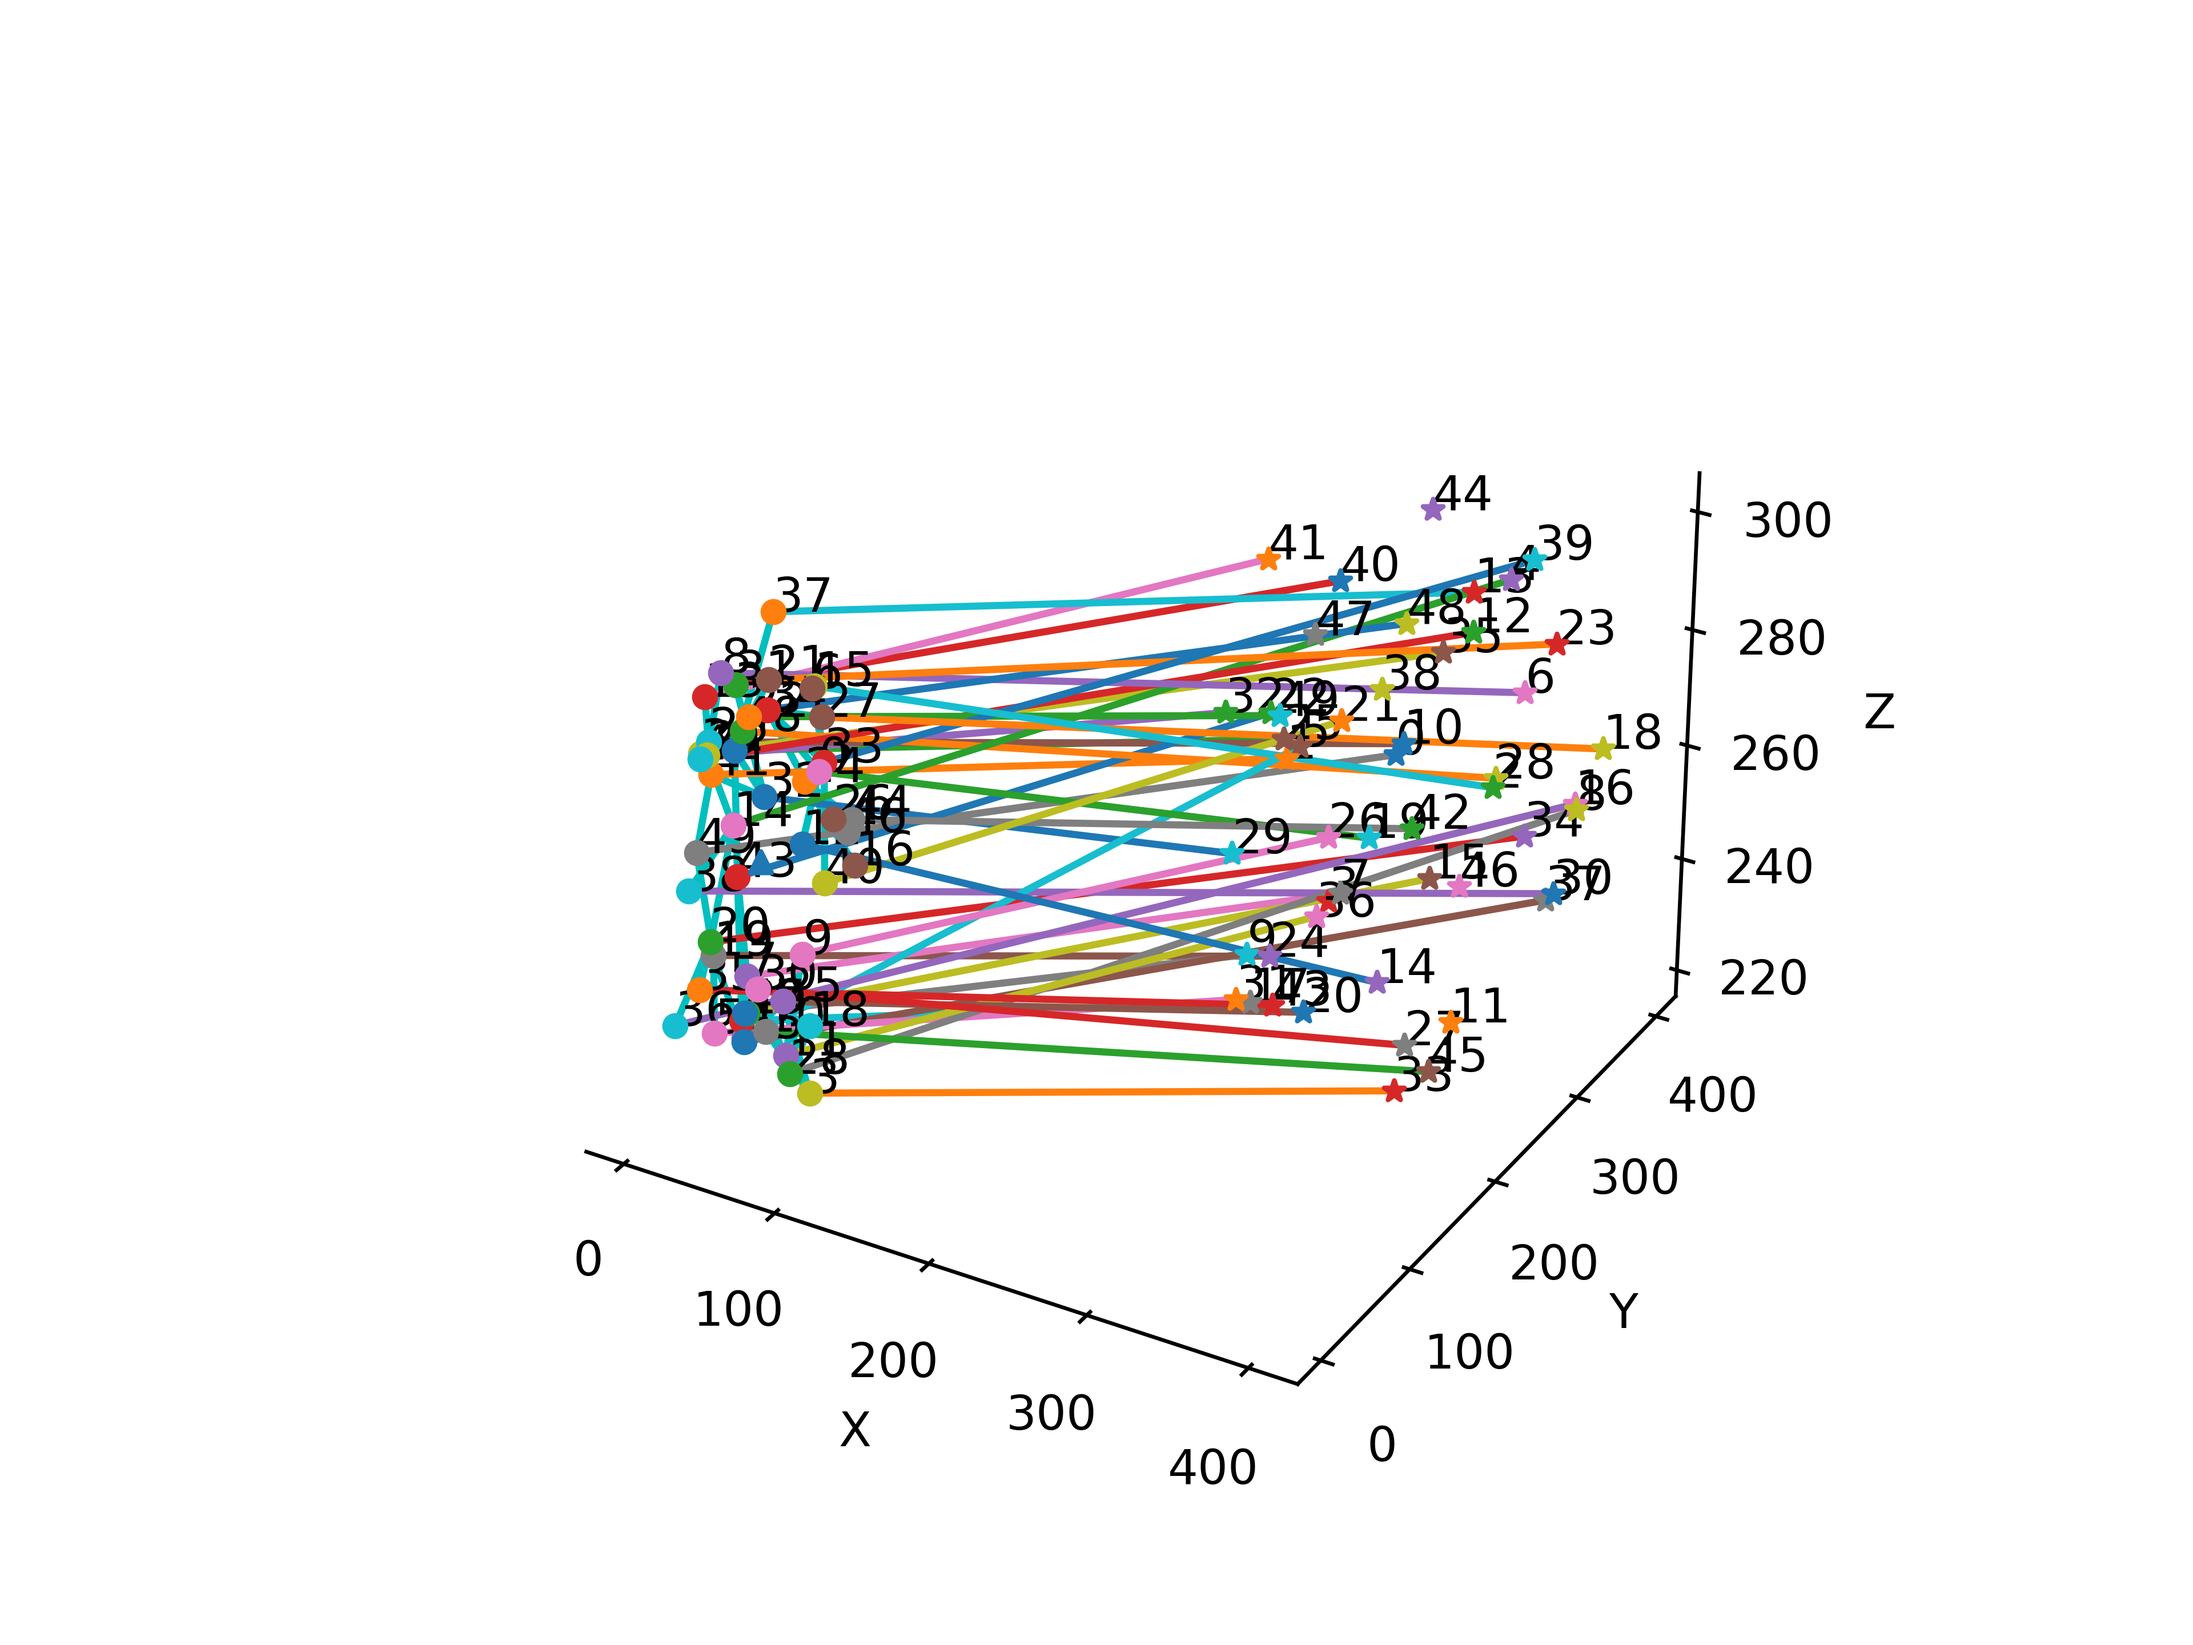
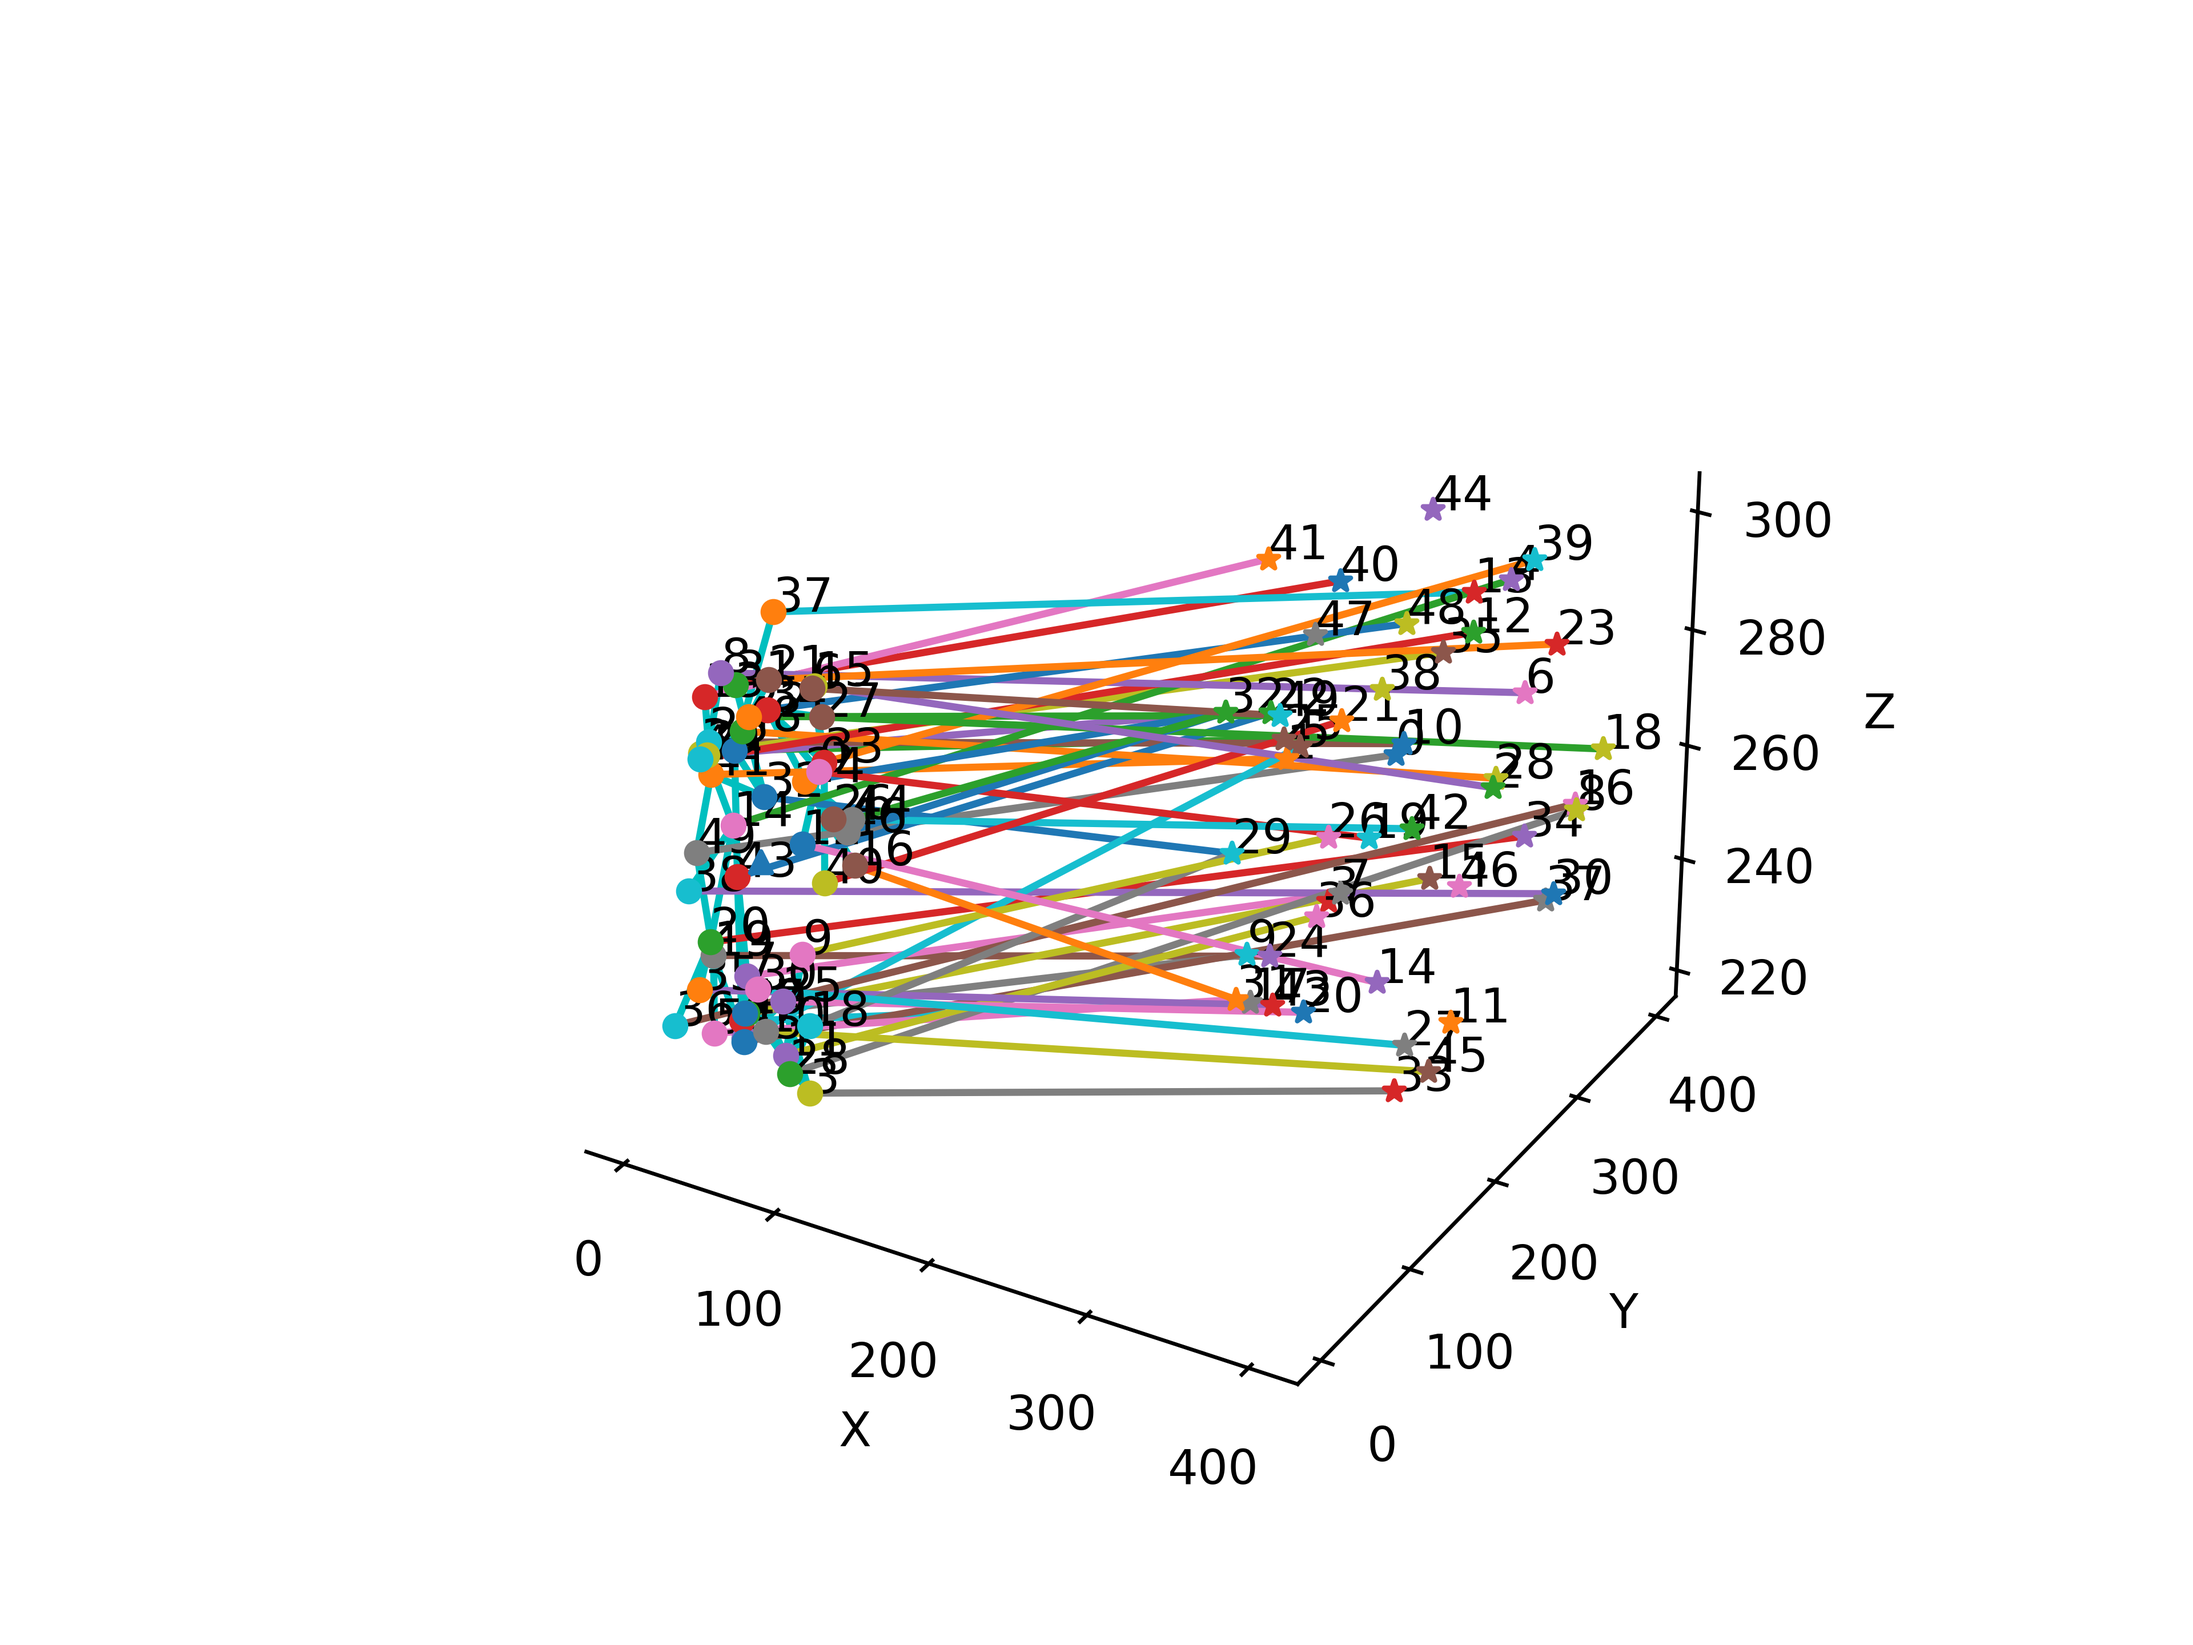
add force allocation

Changed region(s): [[0.375, 0.375, 0.7188, 0.6875], [0.625, 0.3438, 0.6875, 0.375], [0.5938, 0.5625, 0.625, 0.5938]]

diff --git a/algorithm.py b/algorithm.py
@@ -184,7 +184,16 @@ class Algorithm:
 
         if maxp is not None:
             print("unit {} choose task {}".format(r.val.id, tasks[maxp[0]]))
-            return tasks[maxp[0]]
+            return True, tasks[maxp[0]]
+        else:
+            maxc, maxi = 0, 0
+            for i, a in enumerate(r.val.NTL):
+                # print(a)
+                if a["payoff"] > maxc:
+                    maxc = a["payoff"]
+                    maxi = i
+            return False, r.val.NTL[maxi]["id"]
+
 
     def SolveGG(self, T, W):
         for i in range(W.num):
@@ -247,12 +256,13 @@ class Algorithm:
             r = stash.popleft()
             # # global share
             # r.parent_select = previous_select
-            r_select = self.CalcCETree(r, W)
+            is_success, r_select = self.CalcCETree(r, W)
             if r_select is not None:
-                Coverage += 1
-                GlobalPayoff += self.M - np.linalg.norm(r.val.position - T.units[r_select].position)
+                if is_success:
+                    Coverage += 1
+                    GlobalPayoff += self.M - np.linalg.norm(r.val.position - T.units[r_select].position)
+                    previous_select.append(r_select)
                 self.tree_result.append([r.val, T.units[r_select]])
-                previous_select.append(r_select)
             for c in r.children:
                 # # parent share
                 # c.parent_select = r.parent_select
